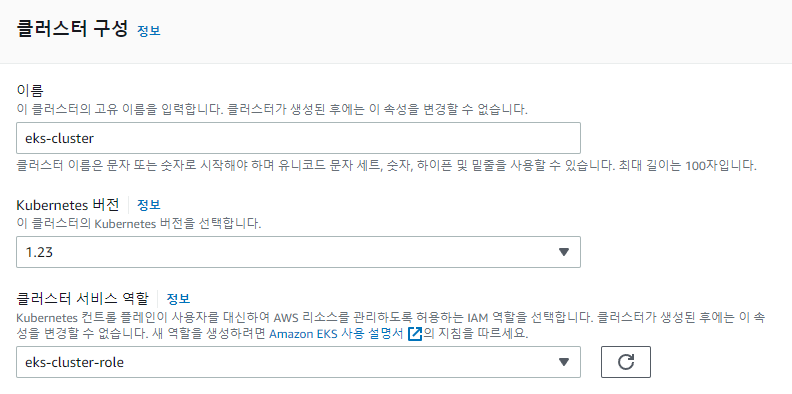
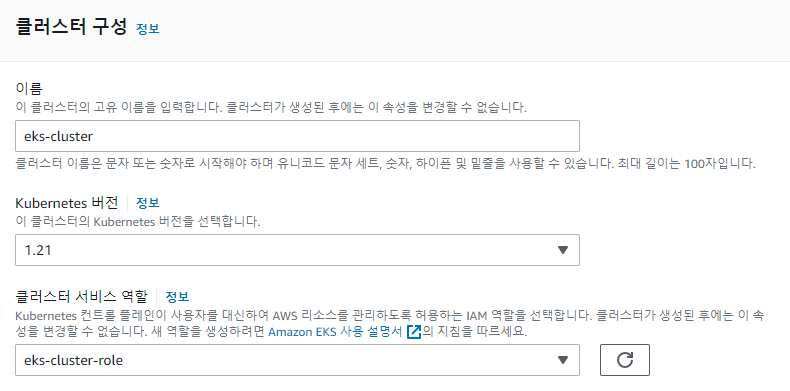
used k8s version in post changed

diff --git a/_posts/devops/k8s/2022-11-03-web-k8s-post.md b/_posts/devops/k8s/2022-11-03-web-k8s-post.md
@@ -112,15 +112,20 @@ EKS - 클러스터 - 클러스터 생성
 
 앞서 생성한 클러스터 역할을 선택한다.
 
+아래 첨부된 내용과 같이 최신 쿠버네티스 버전은 약간의 제약이 있기 때문에 1.21 버전을 선택한다.
+
+![그림11](/assets/img/aws/eks_cluster_version.jpg)
+
+
 **네트워킹 지정**
 
-![그림11](/assets/img/aws/eks_network.png)
+![그림12](/assets/img/aws/eks_network.png)
 
 - **VPC:** 앞서 생성한 VPC 선택
 - **서브넷:** 앞서 생성한 Private 서브넷 선택
 - **보안 그룹:** VPC 스택에서 생성된 보안 그룹 선택
 
-![그림12](/assets/img/aws/eks_cluster_ep_access.png)
+![그림13](/assets/img/aws/eks_cluster_ep_access.png)
 
 퍼블릭 및 프라이빗으로 선택한다.
 
@@ -138,7 +143,7 @@ EKS - 클러스터 - 생성한 클러스터 선택 - 노드 그룹 추가 클릭
 
 **노드 그룹 구성**
 
-![그림13](/assets/img/aws/eks_node_group.png)
+![그림14](/assets/img/aws/eks_node_group.png)
 
 역할은 앞서 생성했던 워커 노드 역할 선택
 
@@ -146,14 +151,14 @@ EKS - 클러스터 - 생성한 클러스터 선택 - 노드 그룹 추가 클릭
 
 다음과 같이 설정한다.
 
-![그림14](/assets/img/aws/eks_node_group_computing.png)
+![그림15](/assets/img/aws/eks_node_group_computing.png)
 
 - **AMI 유형:** Amazon Linux 2
 - **용량 유형:** On-Demand
 - **인스턴스 유형:** t3.medium(최소 사양)
 - **디스크 크기:** 20GB
 
-![그림15](/assets/img/aws/eks_node_group_num.png)
+![그림16](/assets/img/aws/eks_node_group_num.png)
 
 원하는 노드 수로 설정한다.
 
@@ -161,7 +166,7 @@ EKS - 클러스터 - 생성한 클러스터 선택 - 노드 그룹 추가 클릭
 
 다음과 같이 설정한다.
 
-![그림16](/assets/img/aws/eks_cluster_network.png)
+![그림17](/assets/img/aws/eks_cluster_network.png)
 
 - **서브넷:** 앞서 생성해둔 Pirvate 서브넷 2개
 - **SSH 키 페어:** 워커 노드에 접근할 키 페어로 생성하지 않았다면 생성 후 선택

diff --git a/_posts/devops/k8s/2022-11-07-web-k8s-post.md b/_posts/devops/k8s/2022-11-07-web-k8s-post.md
@@ -57,7 +57,7 @@ kubectl get svc -n kubesphere-system
 Default 설정으로 `ks-console` 서비스는 NodePort 타입으로 설정되어 있는데 이를 `LoadBalancer`로 수정한다.
 
 ```cmd
-kubectl get svc -n kubesphere-system
+kubectl edit svc/ks-console -n kubesphere-system
 ```
 
 ```
@@ -76,7 +76,11 @@ kubectl get svc -n kubesphere-system
 
 ![그림1](/assets/img/aws/kubesphere_svc.png)
 
-External-IP에서 주소를 확인해서 접속하면 성공!
+External-IP에서 주소를 확인해서 접속하면 성공
+
+최초 접속 계졍 및 패스워드
+- Account: admin
+- Password: P@88w0rd
 
 ![그림2](/assets/img/aws/ks_mainP.png)
 
